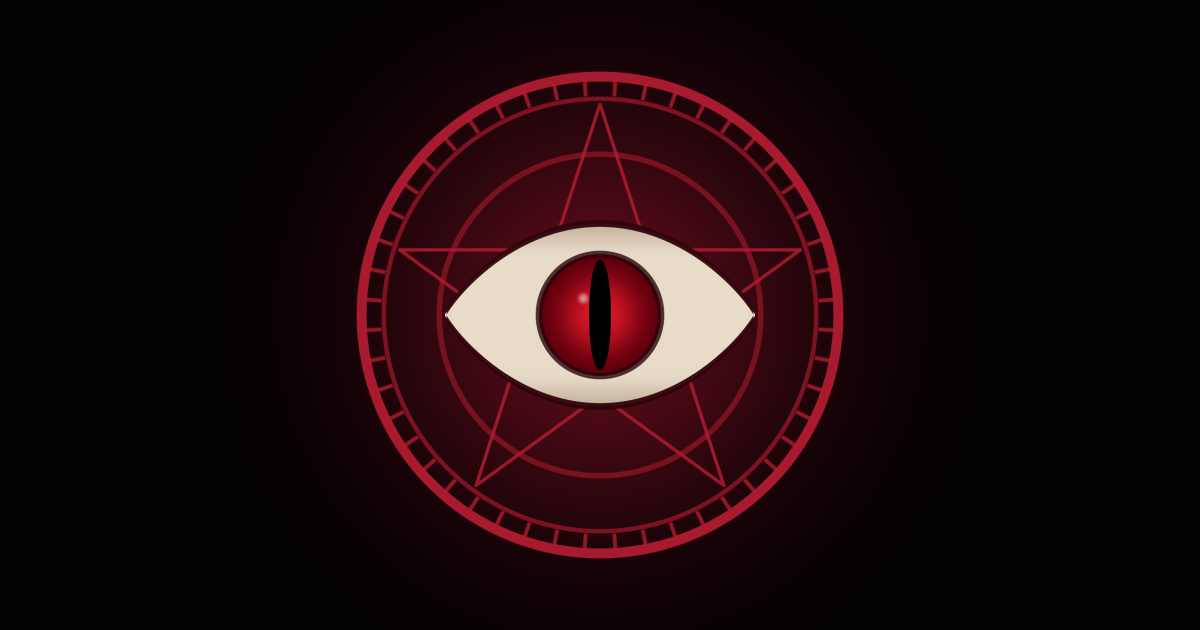
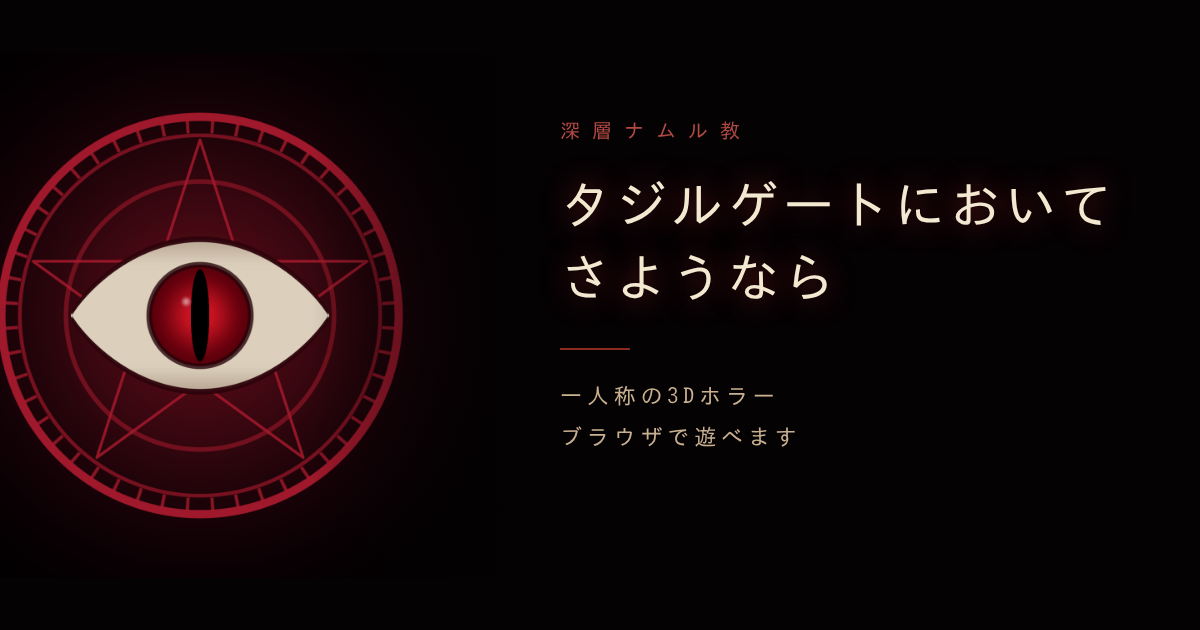
Share thumbnail: new og.png with the title, og/twitter tags pointing at a reachable image, itch.io cover
Claude-Session: https://claude.ai/code/session_01HjBNEri4J7j5mFaREy7rox

diff --git a/mobile.html b/mobile.html
@@ -11,7 +11,7 @@
 <link rel="manifest" href="manifest-mobile.webmanifest">
 <meta name="theme-color" content="#0a0204">
 <meta name="description" content="深層ナムル教の聖堂を舞台にした、ブラウザで遊べる一人称の3Dホラーゲーム。">
-<meta property="og:type" content="website"><meta property="og:site_name" content="タジルゲートにおいてさようなら"><meta property="og:title" content="タジルゲートにおいてさようなら"><meta property="og:description" content="深層ナムル教の聖堂を舞台にした、ブラウザで遊べる一人称の3Dホラーゲーム。"><meta property="og:image" content="https://fujiapple-rin.github.io/first/og.png"><meta name="twitter:card" content="summary_large_image">
+<meta property="og:type" content="website"><meta property="og:site_name" content="タジルゲートにおいてさようなら"><meta property="og:title" content="タジルゲートにおいてさようなら"><meta property="og:description" content="深層ナムル教の聖堂を舞台にした、ブラウザで遊べる一人称の3Dホラーゲーム。"><meta property="og:image" content="https://raw.githubusercontent.com/fujiapple-rin/first/main/og.png"><meta property="og:image:width" content="1200"><meta property="og:image:height" content="630"><meta property="og:image:alt" content="タジルゲートにおいてさようなら"><meta property="og:locale" content="ja_JP"><meta name="twitter:card" content="summary_large_image"><meta name="twitter:title" content="タジルゲートにおいてさようなら"><meta name="twitter:description" content="深層ナムル教の聖堂を舞台にした、ブラウザで遊べる一人称の3Dホラーゲーム。"><meta name="twitter:image" content="https://raw.githubusercontent.com/fujiapple-rin/first/main/og.png">
 <!-- /app-icons -->
 <link rel="preconnect" href="https://fonts.googleapis.com">
 <link rel="preconnect" href="https://fonts.gstatic.com" crossorigin>

diff --git a/index.html b/index.html
@@ -11,7 +11,7 @@
 <link rel="manifest" href="manifest.webmanifest">
 <meta name="theme-color" content="#0a0204">
 <meta name="description" content="深層ナムル教の聖堂を舞台にした、ブラウザで遊べる一人称の3Dホラーゲーム。">
-<meta property="og:type" content="website"><meta property="og:site_name" content="タジルゲートにおいてさようなら"><meta property="og:title" content="タジルゲートにおいてさようなら"><meta property="og:description" content="深層ナムル教の聖堂を舞台にした、ブラウザで遊べる一人称の3Dホラーゲーム。"><meta property="og:image" content="https://fujiapple-rin.github.io/first/og.png"><meta name="twitter:card" content="summary_large_image">
+<meta property="og:type" content="website"><meta property="og:site_name" content="タジルゲートにおいてさようなら"><meta property="og:title" content="タジルゲートにおいてさようなら"><meta property="og:description" content="深層ナムル教の聖堂を舞台にした、ブラウザで遊べる一人称の3Dホラーゲーム。"><meta property="og:image" content="https://raw.githubusercontent.com/fujiapple-rin/first/main/og.png"><meta property="og:image:width" content="1200"><meta property="og:image:height" content="630"><meta property="og:image:alt" content="タジルゲートにおいてさようなら"><meta property="og:locale" content="ja_JP"><meta name="twitter:card" content="summary_large_image"><meta name="twitter:title" content="タジルゲートにおいてさようなら"><meta name="twitter:description" content="深層ナムル教の聖堂を舞台にした、ブラウザで遊べる一人称の3Dホラーゲーム。"><meta name="twitter:image" content="https://raw.githubusercontent.com/fujiapple-rin/first/main/og.png">
 <!-- /app-icons -->
 <link rel="preconnect" href="https://fonts.googleapis.com">
 <link rel="preconnect" href="https://fonts.gstatic.com" crossorigin>
